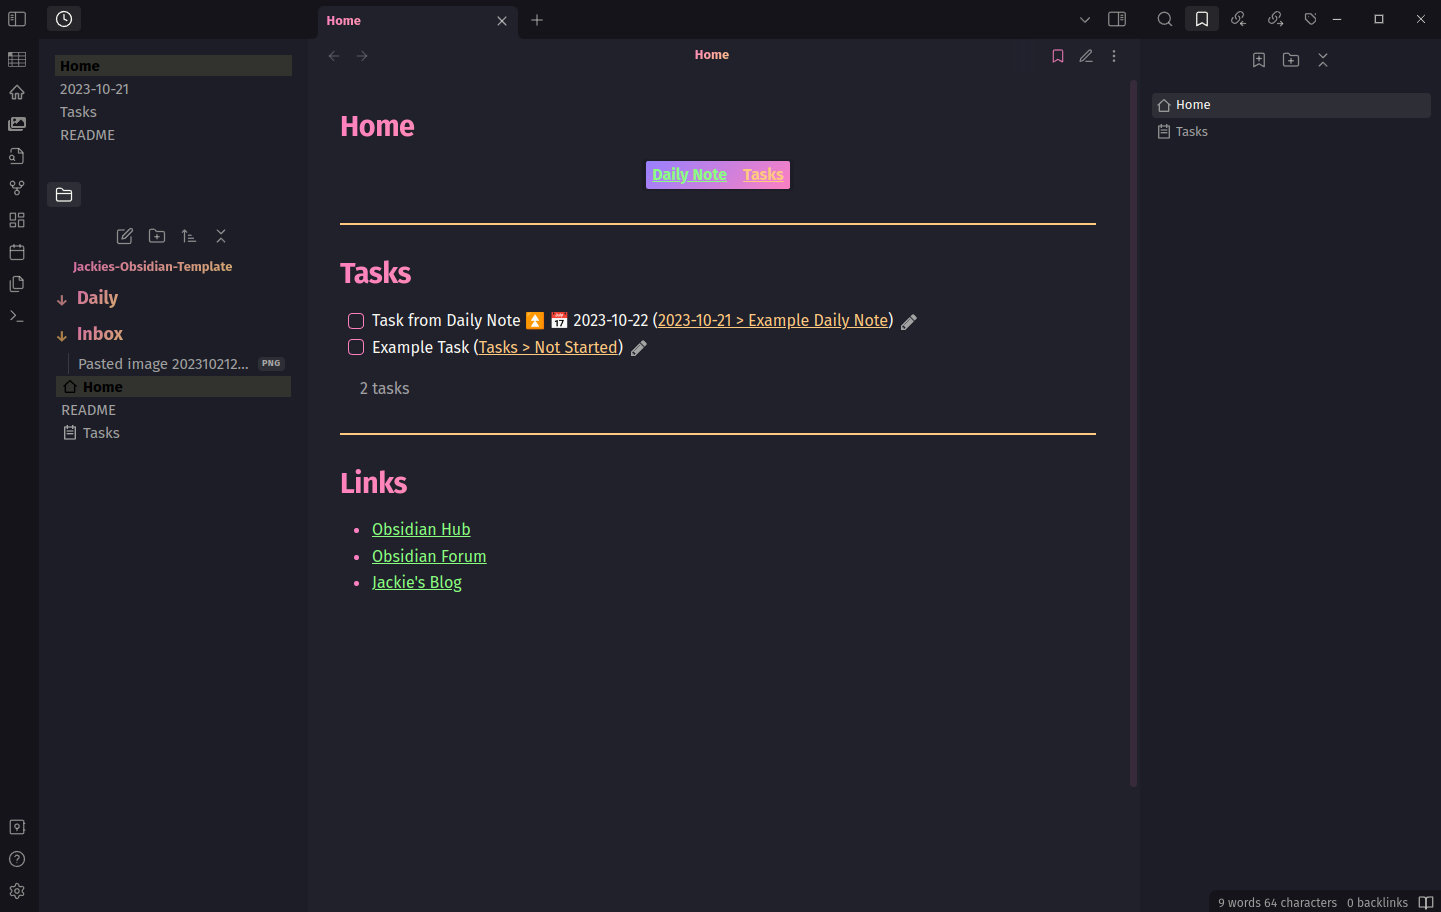
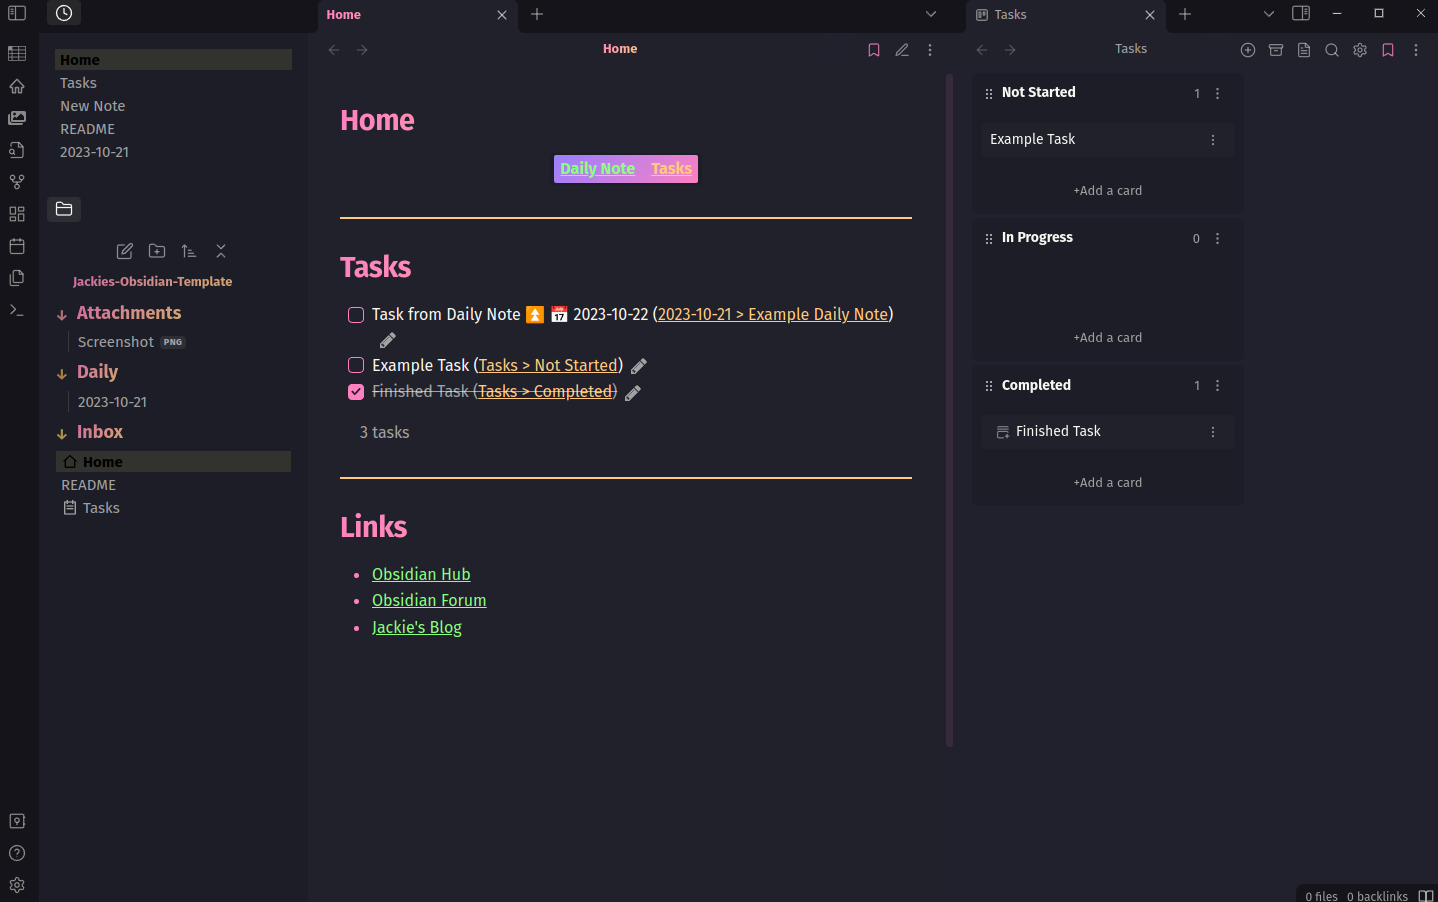
Better sceenshot showing off kanban board

diff --git a/Tasks.md b/Tasks.md
@@ -16,6 +16,7 @@ kanban-plugin: basic
 ## Completed
 
 **Complete**
+- [x] Finished Task
 
 
 
